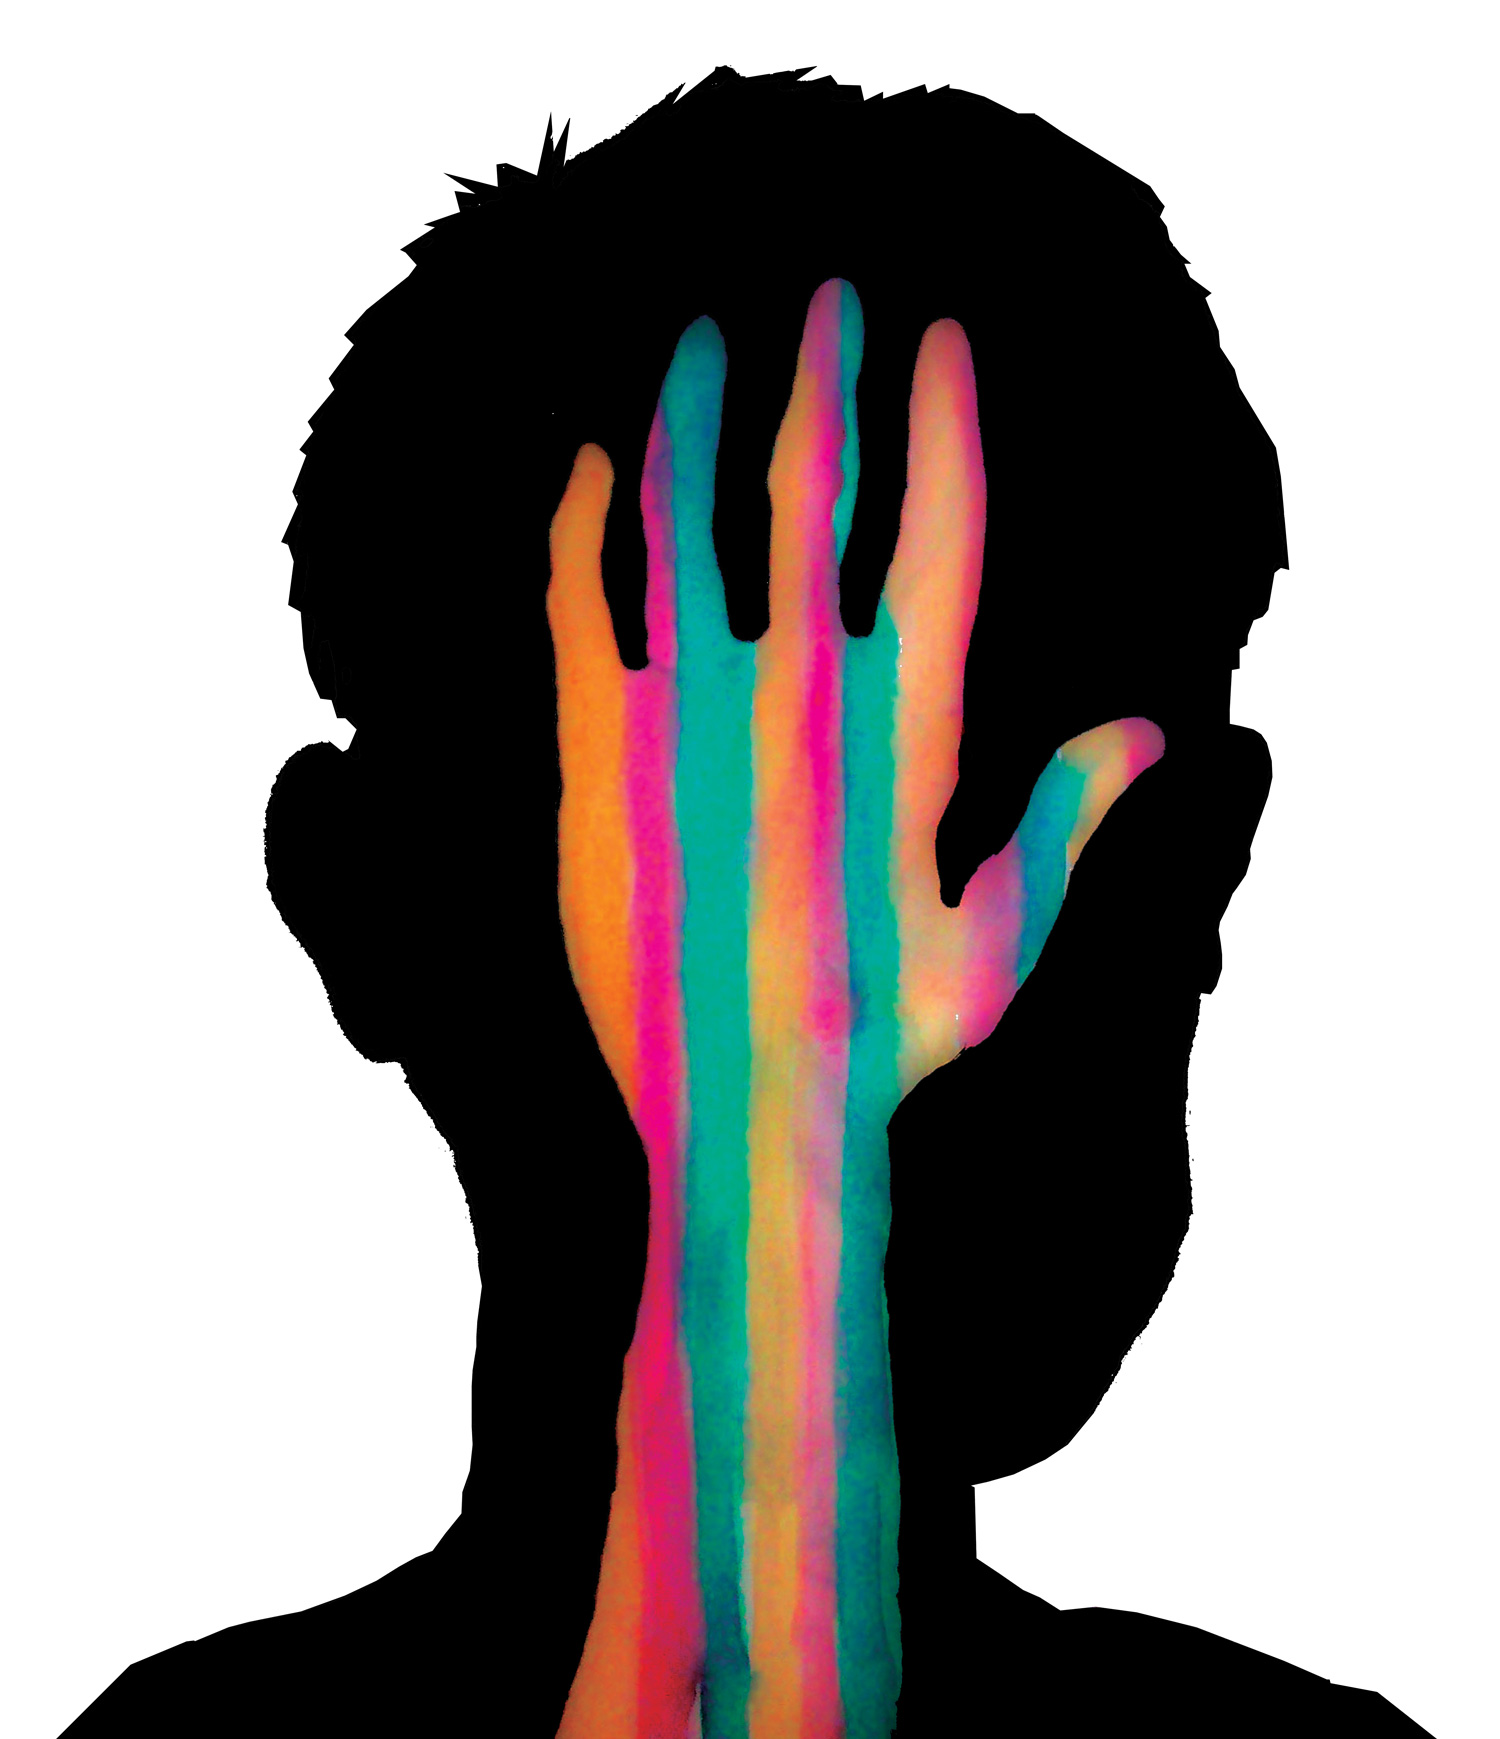
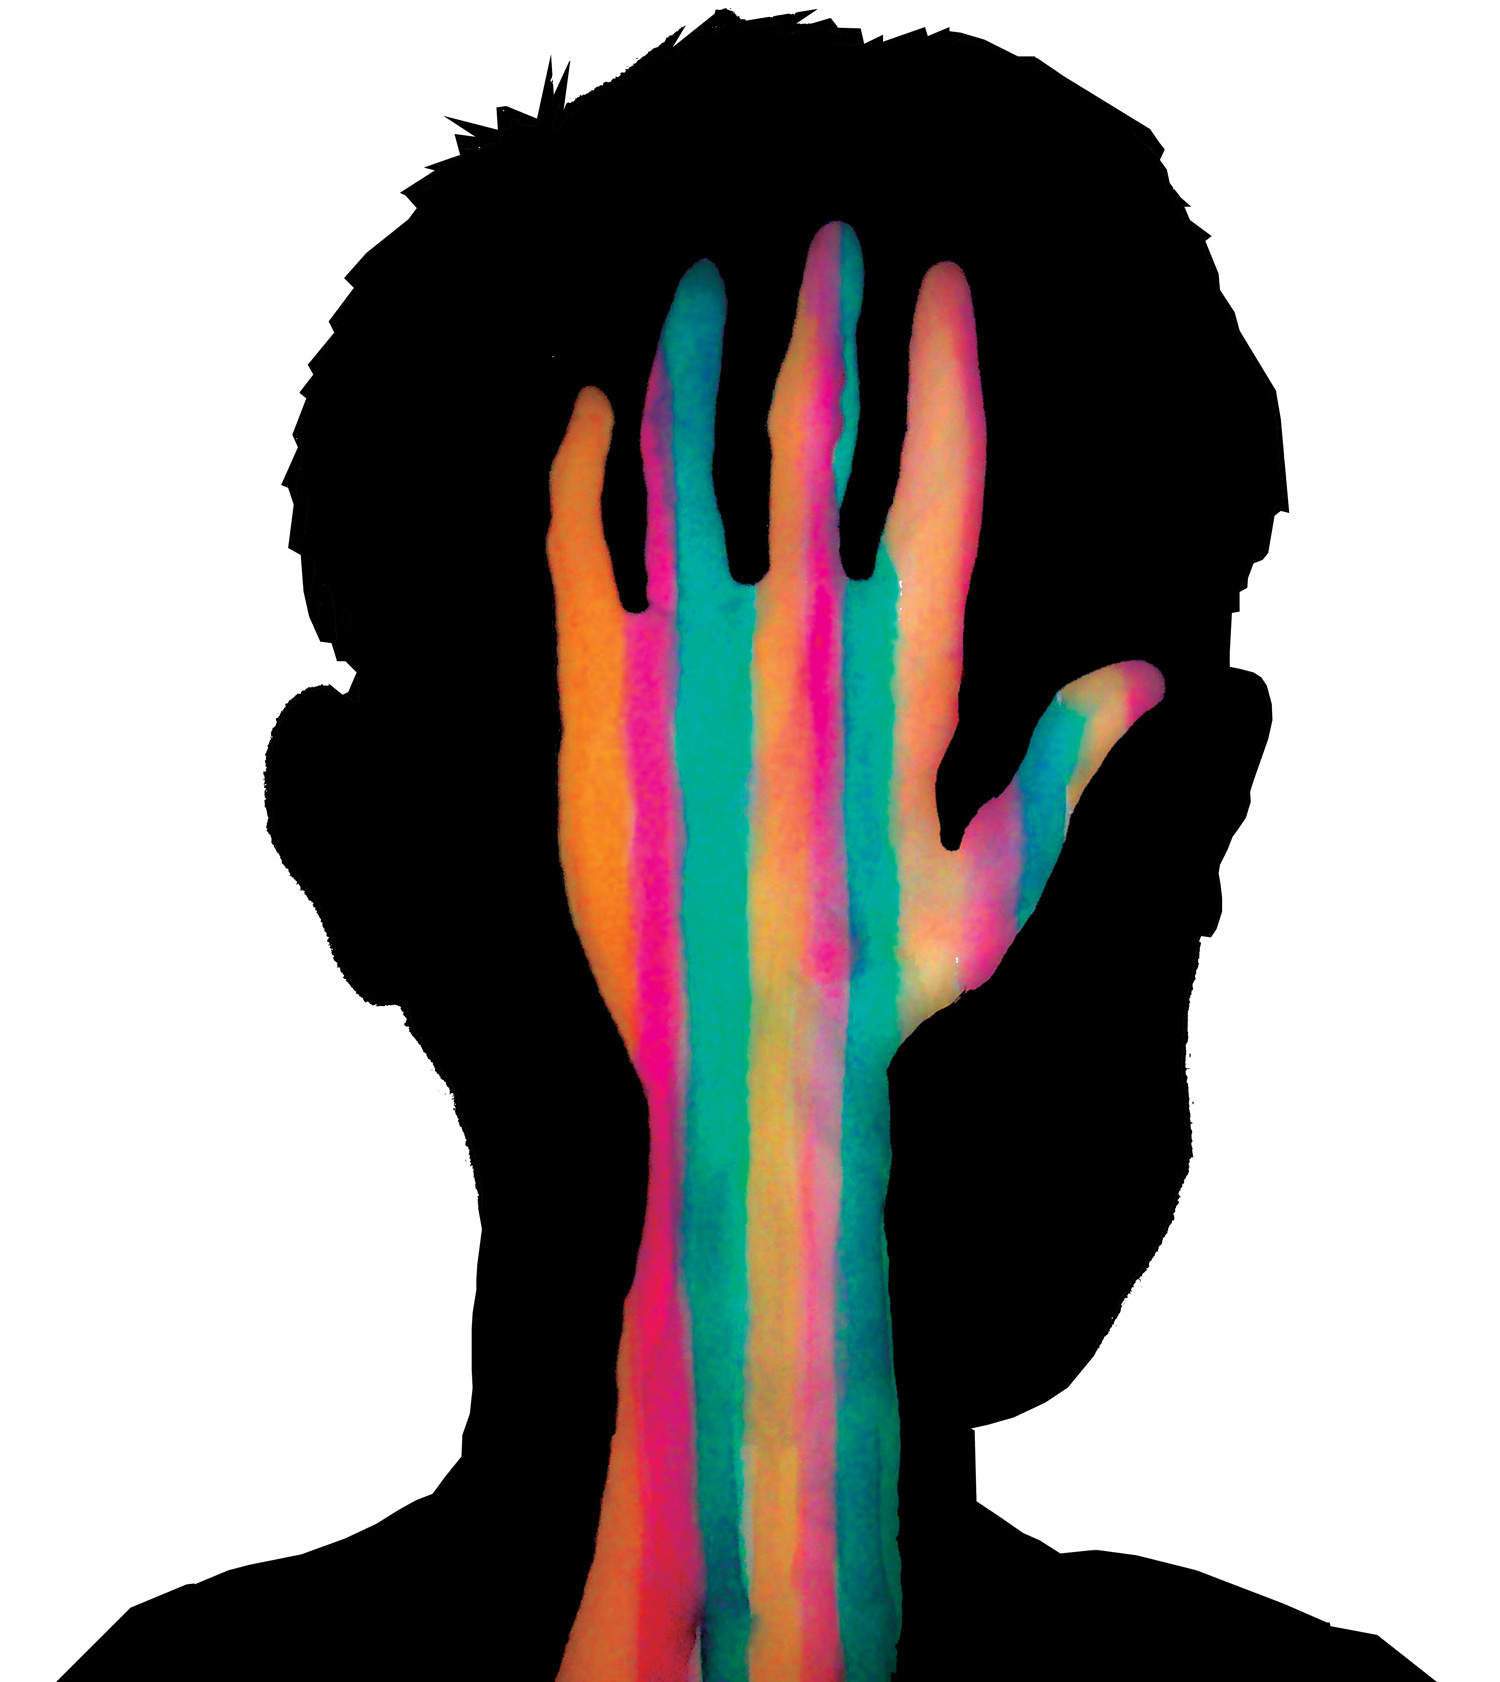
contact page formatting

diff --git a/style.css b/style.css
@@ -20,6 +20,9 @@ a {
 }
 
 #nav-bar {
+  position: absolute;
+  width: 100%;
+  bottom: 30px;
   margin-top: 50px;
   text-align: center;
   font-size: 2.6vw;
@@ -30,10 +33,11 @@ a {
   margin-top: 10px;
 }
 
-@media (max-width: 700px) {
+@media (max-width: 800px) {
     #nav-bar {
       font-size: 5.2vw;
       word-spacing: 2vw;
+      position: static;
     }
 }
 
@@ -126,6 +130,7 @@ a {
   width: 40%;
   left: 55%;
   top: 15%;
+  height: 70%;
 }
 
 #bio-title {
@@ -144,7 +149,7 @@ a {
 
 #bio-text {
   margin-top: 40px;
-  font-size: 1em;
+  font-size: 1.5em;
   letter-spacing: 0.2em;
   line-height: 1.5em;
   text-align: justify;
@@ -157,7 +162,7 @@ a {
   bottom: 0;
   height: 100%;
   width: 50%;
-  max-width: 700px;
+  max-width: 750px;
   background-image: url("highres/bio.jpg");
   background-size: 100% auto;
   background-repeat: no-repeat;
@@ -171,19 +176,18 @@ a {
   bottom: 0;
   height: 100%;
   width: 50%;
-  max-width: 700px;
   background-image: url("highres/contact-page.jpg");
   background-size: 100% auto;
   background-repeat: no-repeat;
   background-position: left bottom;
 }
 
-@media (max-width: 700px) {
+@media (max-width: 800px) {
   #bio-text-container {
     float: none;
     position: static;
     width: 90%;
-    margin-top: 10%;
+    margin-top: 30%;
     margin-left: 5%;
   }
 
@@ -204,14 +208,15 @@ a {
   #bio-picture {
     position: static;
     width: 100%;
-    height: 90%;
-    max-width: 600px;
+    height: 100%;
+    margin-top: -200px;
   }
 
   #contact-picture {
     position: static;
-    height: 90%;
+    height: 100%;
     width: 100%;
+    margin-top: -200px;
   }
 
 }

diff --git a/contact.html b/contact.html
@@ -31,6 +31,11 @@
       Comissions, collaborations and events are all part of my creative repertoire. Please feel free to get in touch for any future projects or releases.
     </div>
 
+    <div id="contacts">
+      masonbarnescrouse@gmail.com
+      @the_mason_man
+    </div>
+
     <div id="nav-bar">
       <div class="nav-item shake"><a href="index.html">Home</a></div>
       <div class="nav-item shake"><a href="bio.html">Bio</a></div>
